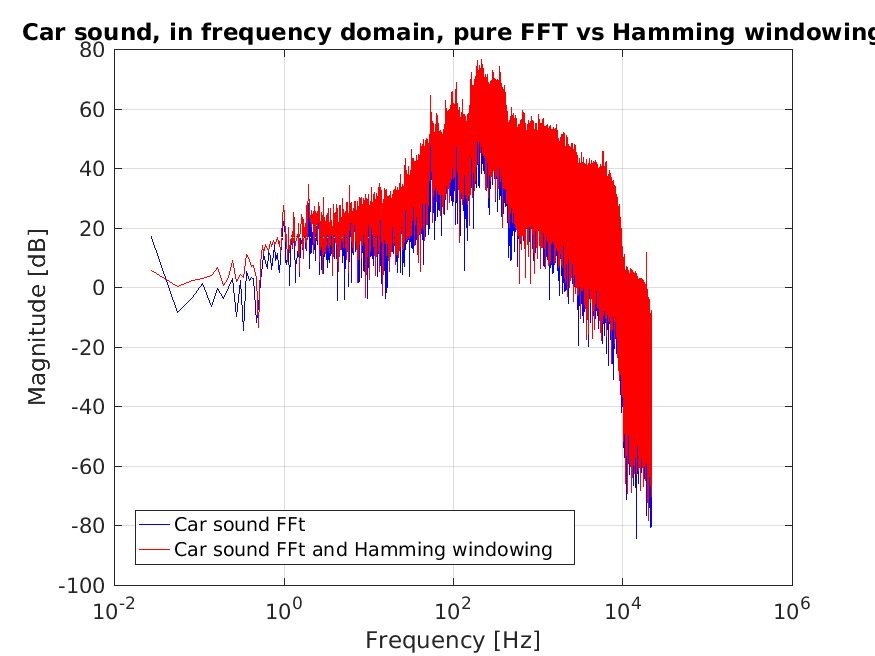
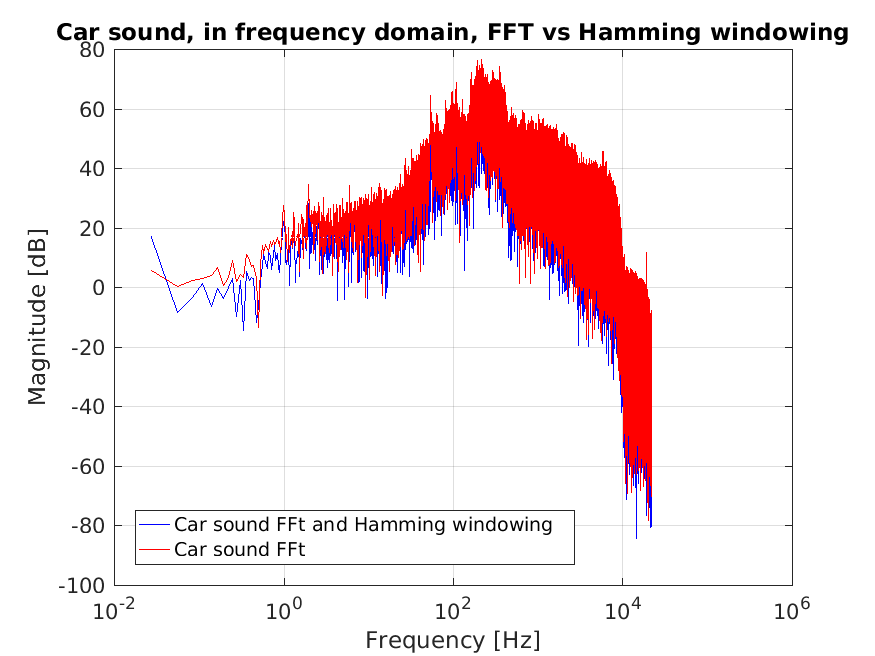
Change which graph is first in order for better visualization of data

Changed region(s): [[0.0309, 0.0305, 1.0, 0.061], [0.3394, 0.7927, 0.648, 0.8537]]

diff --git a/code/car.m b/code/car.m
@@ -64,7 +64,7 @@ title([figureTitle, ' sound, in frequency domain, pure FFT vs Zeropad']);
 xlabel('Frequency [Hz]');
 ylabel('Magnitude [dB]');
 semilogx(frequency_samples(1:N/2), YdB(1:N/2), 'r');
-legend([figureTitle,' sound FFt'],[figureTitle,' sound FFt and Zeropad'], 'Location', 'southwest');
+legend([figureTitle,' sound FFt and Zeropad'],[figureTitle,' sound FFt'], 'Location', 'southwest');
 grid on
 hold off
 
@@ -76,13 +76,13 @@ Y_win = fft(y_win);
 YdB_win = 20*log10(abs(Y_win));
 
 figure(5);
-semilogx(frequency_samples(1:N/2),YdB_win(1:N/2), 'b'); 
+semilogx(frequency_samples(1:N/2),YdB_win(1:N/2), 'b');
 hold on
-title([figureTitle, ' sound, in frequency domain, pure FFT vs Hamming windowing']);
+title([figureTitle, ' sound, in frequency domain, FFT vs Hamming windowing']);
 xlabel('Frequency [Hz]');
 ylabel('Magnitude [dB]');
 semilogx(frequency_samples(1:N/2), YdB(1:N/2), 'r');
-legend([figureTitle,' sound FFt'],[figureTitle,' sound FFt and Hamming windowing'], 'Location', 'southwest');
+legend([figureTitle,' sound FFt and Hamming windowing'],[figureTitle,' sound FFt'], 'Location', 'southwest');
 grid on
 hold off
 
